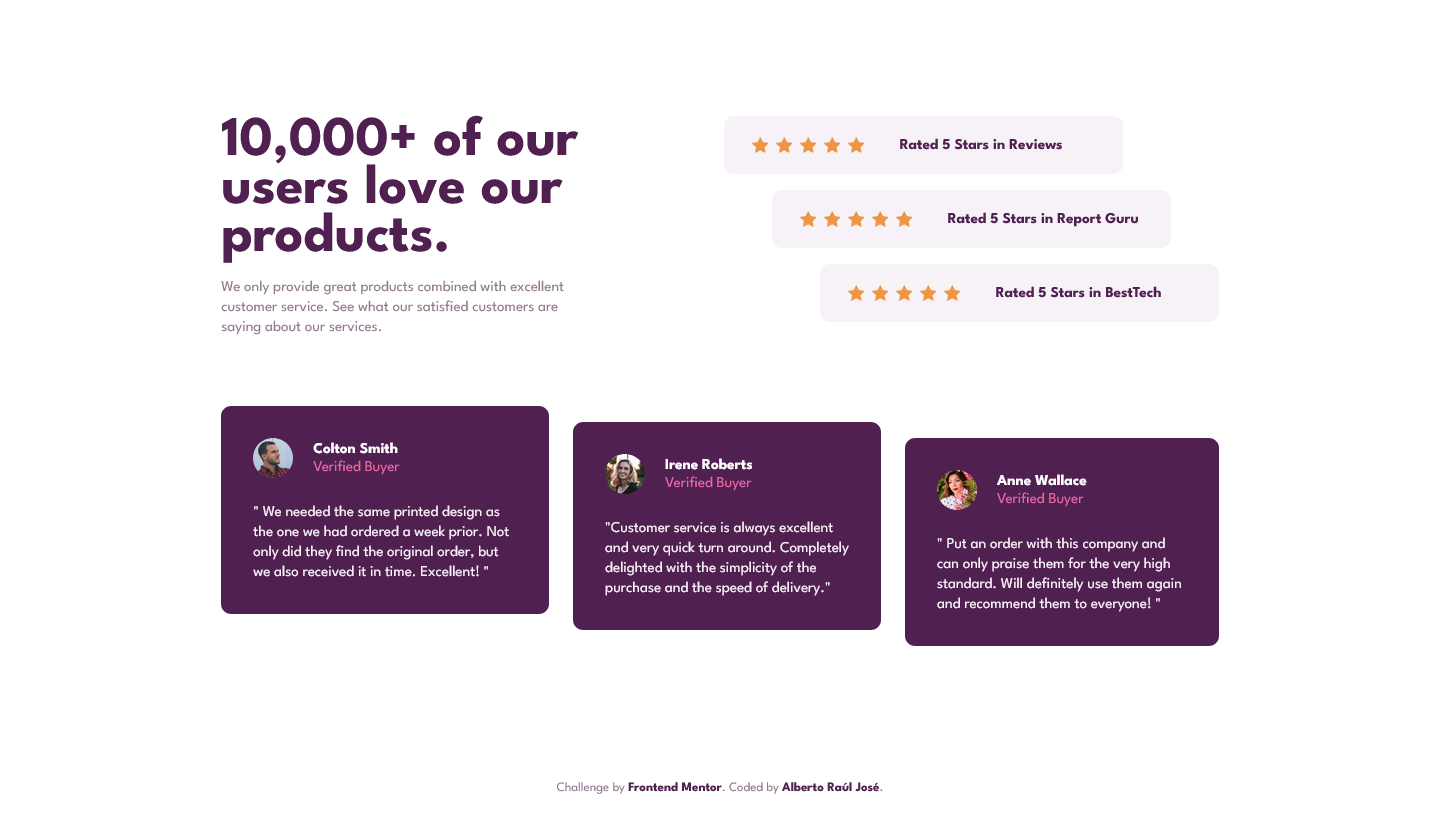
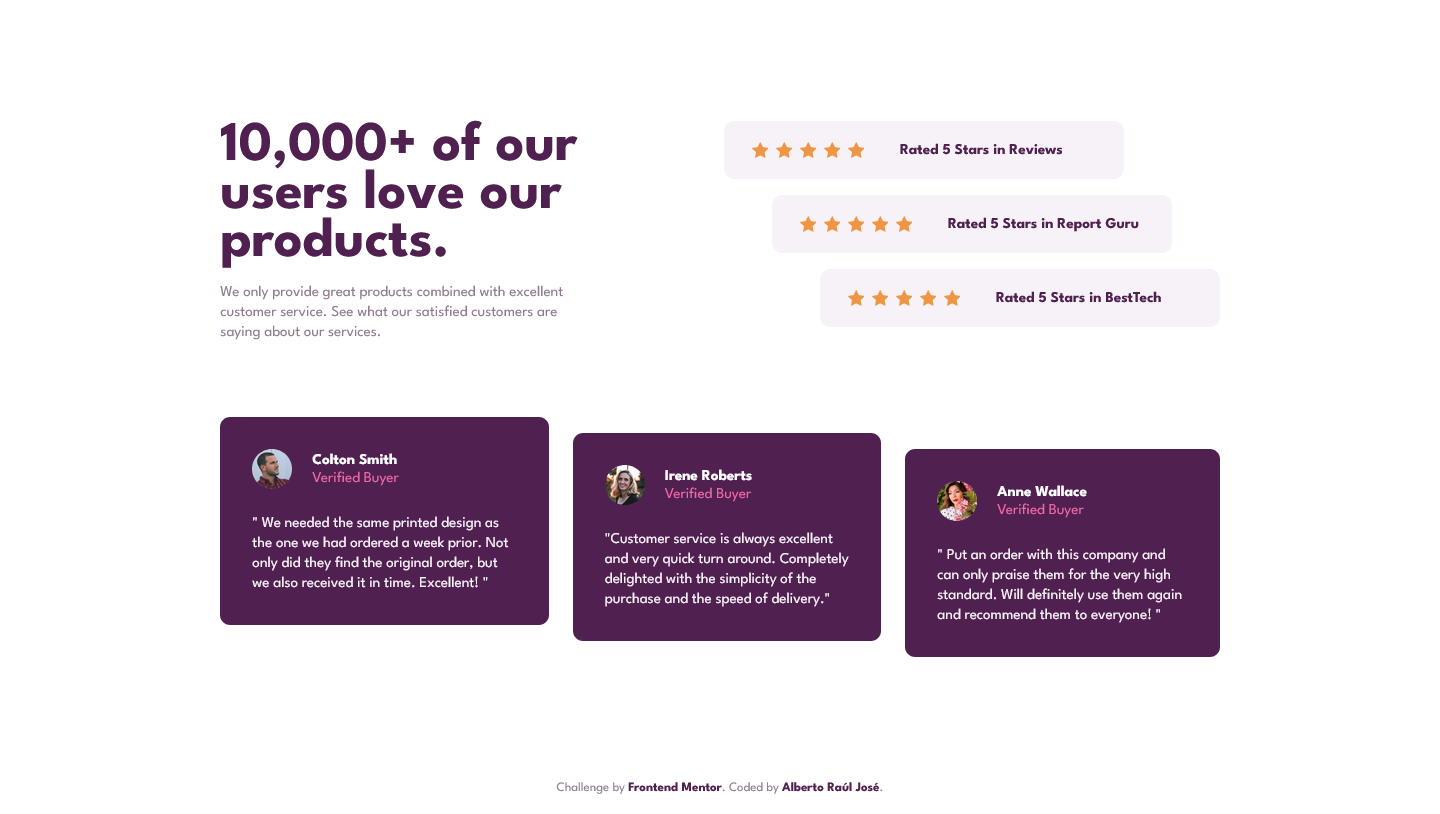
Alterei o Screenshot

diff --git a/social-proof-section/style.css b/social-proof-section/style.css
@@ -18,6 +18,7 @@
 }
 
 * {
+    box-sizing: border-box;
     margin: 0;
     padding: 0;
     text-decoration: none;
@@ -162,7 +163,7 @@ body {
         flex-direction: row;
         flex-wrap: wrap;
         align-content: space-evenly;
-        max-width: calc(375px * 2.66);
+        max-width: calc(375px * 2.75);
         height: 100%;
     }
         .text-container {
@@ -213,6 +214,7 @@ body {
         }
             .card {
                 margin-right: 24px;
+                margin-bottom: 0;
             }
 
             .card:first-child {
